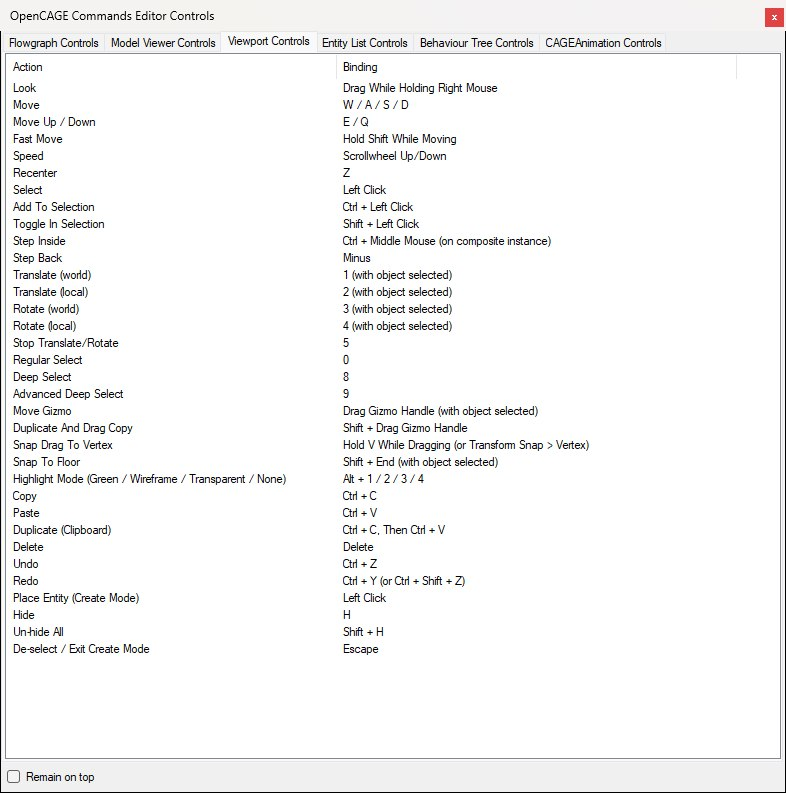
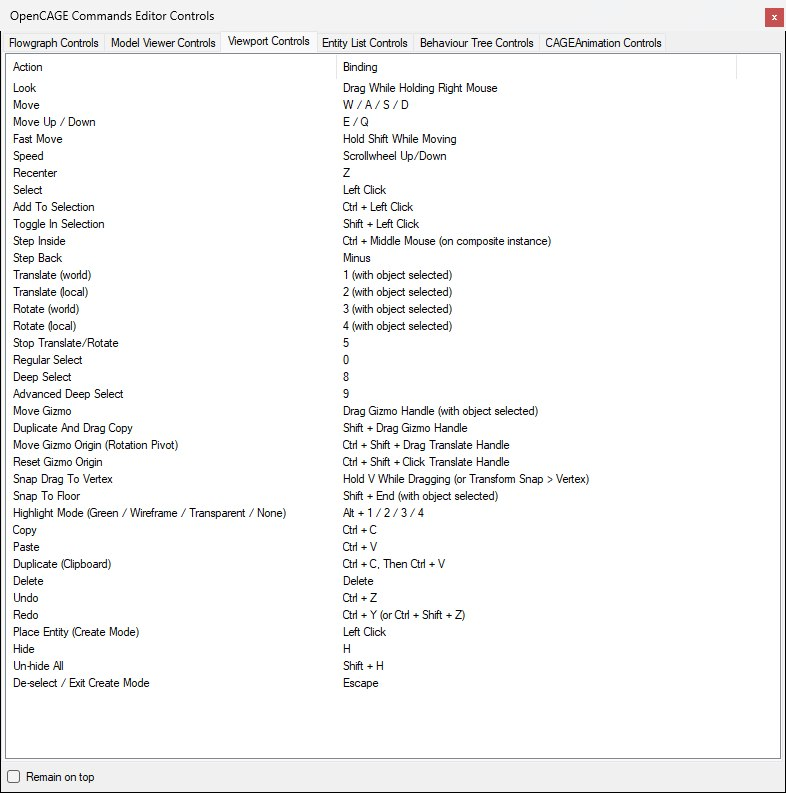
docs, changelog

diff --git a/docs/scripting-intro/index.html b/docs/scripting-intro/index.html
@@ -241,7 +241,7 @@
 			<li><b>[1] Entity List</b> - The panel named after the composite (<b>Bunk_Room Entities</b> here) shows you every entity within the current composite separated by type, with various additional information. Click a column header to sort the list by that column, and click it again to reverse the order - the arrow on the header shows the current sort, which is remembered between sessions. Select several rows with Ctrl or Shift+click and press <b>Delete</b> to remove them in one go (one confirmation, one undo step); <b>Ctrl+C</b> / <b>Ctrl+V</b> copy and paste from here too, and the arrow keys move between entities without stopping on the group headers.</li>
 			<li><b>[2] Flowgraph</b> - This contains the composite's flowgraphs, creating links between entities to drive logic (more later!). Each flowgraph is a page, with a tab along the bottom (<b>DefaultPage</b> here). A composite with no links yet, like a new one, starts with one page named after it (<b>My First Script</b> in the <a href="#creating-script">tutorial picture</a> below). A composite whose links don't match a saved page (one changed with another tool, say, or one with links that no page was ever saved for) opens with no flowgraph pages and no <b>Create Flowgraph</b> button. The inspector then lists the selected entity's links under its parameters, with a <b>Create Link</b> button, so you can still wire it up.</li>
 			<li><b>[3] Entity Inspector</b> - This holds information about the selected entity, and is where you modify its parameters (see <a href="#inspector">The Entity Inspector</a> below). It takes the entity's name as its title.</li>
-			<li><b>[4] Composite Browser</b> - A tab at the bottom left, beside the <b>Entity Palette</b> and the entity list. This contains all composites available within the current level: a folder tree, and under it every composite as a preview of what it contains, captured by the <a href="/docs/level-viewer/#composite-previews">Viewport</a>. To narrow both down, type in the search box and press <b>Search</b> (or Enter); clearing the box shows everything again. If you'd rather have a folder-by-folder file browser there, or just the tree, change <b>Composite Browser Mode</b> under <b>Options → Composite Display</b>; the same menu can put small previews in the tree views too.</li>
+			<li><b>[4] Composite Browser</b> - A tab at the bottom left, beside the <b>Entity Palette</b> and the entity list. This contains all composites available within the current level: a folder tree, and under it every composite as a preview of what it contains, captured by the <a href="/docs/level-viewer/#composite-previews">Viewport</a>. To narrow both down, type in the search box and press <b>Search</b> (or Enter); clearing the box shows everything again. The search matches folder names as well as composite names, so a folder's name finds everything in it. To match only composite names, turn on <b>Search Only Composite Names</b> under <b>Options → Composite Display</b> (see <a href="/docs/options/#composite-display">Options</a>). It's off by default, and while it's on, hovering over <b>Search</b> says so. If you'd rather have a folder-by-folder file browser there, or just the tree, change <b>Composite Browser Mode</b> under <b>Options → Composite Display</b>; the same menu can put small previews in the tree views too.</li>
 			<li><b>[5] Viewport</b> - The level in 3D, docked above the flowgraph, with its toolbar across the top: <b>Selection</b>, <b>Control</b>, <b>Create</b>, <b>Measure</b>, <b>Show State Info</b> and <b>Highlight Zones</b>, then <b>Rotation Snap</b> and <b>Transform Snap</b> at the right-hand end. It's there while <b>Options → Viewport → Enable Viewport</b> is ticked; see the <a href="/docs/level-viewer/">Viewport</a> page.</li>
 		</ul>
 		<p>Along the top are the menu bar (<b>File</b>, <b>Edit</b>, <b>View</b>, <b>Options</b>, <b>Help</b>, <b>Manage Backups</b> and <b>Launch Game</b>, joined by <b>Live Link</b> while the Steam version of the game is running with <a href="/docs/live-link/#live-link-button">Live Link</a>) and, above the Viewport and the flowgraph, the composite bar: the back button and its history dropdown (see <a href="#node-annotations">Reading the Flowgraph</a>), the trail of composites you stepped down through to get here, ending in bold with the one you're in (click an earlier one to go back up to it; just <b>Bunk_Room</b> here, as it was opened on its own), and <b>Composite Instance Info</b>, which shows where the instance you stepped into sits: its position in the level if you stepped down from the root, or relative to the composite you started from if not. Under it, the composite toolbar has <b>Create Entity</b> (a dropdown of the five entity types) and <b>Create Flowgraph</b> for a new page on the left (followed, while <a href="/docs/live-link/">Live Link</a> is connected, by <b>Resync</b> and then <b>Show Activity</b>, each set off by a divider; <b>Clear Activity</b> joins Show Activity while it's on, and both stay after a disconnect while links are still lit), and on the right the buttons for the composite itself: <b>Delete</b>, <b>Rename</b>, <b>Find Instances</b>, which lists its instances in the Search panel, and <b>Port</b>, which opens the <a href="/docs/composite-porting/#export">Port Composites</a> window with this composite ticked.</p>

diff --git a/docs/level-viewer/index.html b/docs/level-viewer/index.html
@@ -225,6 +225,16 @@
 		<p>Click and drag the coloured gizmo handles to transform the entity. The current mode is shown in a small HUD.</p>
 		<p>An entity with more than one transform parameter only has the relevant one updated when you drag it, rather than all of them.</p>
 
+		<h3 class="section-heading" style="font-size: 1.1rem; margin-top: 1.5rem;">Moving the Gizmo's Origin</h3>
+		<p>The gizmo normally sits on the selected entity (or in the middle of a multi-selection), and rotating turns everything about that point. To turn about somewhere else — a door about its hinge, say — move the gizmo first: hold <b>Ctrl + Shift</b> and drag one of the translate handles. Only the gizmo moves. The entity stays where it is and nothing in the level changes, so there's nothing to undo. A thin line runs from the moved gizmo back to the entity's own origin while it's away from it.</p>
+		<ul>
+			<li>Switch to a rotate mode (<b>3</b> or <b>4</b>) and the rings sit on the new origin: the selection swings round it as it turns, keeping its shape. With <b>Rotation Snap</b> on it turns in whole steps from where it started.</li>
+			<li>Translating carries the origin along with the selection, so it stays in the same place relative to it.</li>
+			<li>With vertex snap on (hold <b>V</b>, or <b>Vertex</b> from the <b>Transform Snap</b> menu), the origin snaps to vertices as you drag it — including the selected entity's own, which is how to put it exactly on a corner or a hinge.</li>
+			<li><b>Ctrl + Shift + click</b> a translate handle to put the gizmo back on the entity, or press <b>Escape</b> mid-drag to put it back where the drag began.</li>
+		</ul>
+		<p>The moved origin lasts as long as the selection does. Select something else and it's forgotten: the gizmo is back on the entity the next time you select it. A Shift-drag duplicate (below) keeps it, so the copy turns about the same point.</p>
+
 		<h3 class="section-heading" style="font-size: 1.1rem; margin-top: 1.5rem;">Snapping</h3>
 		<p>Use <b>Transform Snap</b> and <b>Rotation Snap</b> on the Viewport toolbar to snap movement and rotation to stepped values while dragging. The values on offer are yours to change: <b>Options → Viewport → Snap Increments…</b> opens the dialog below, with a list of transform increments (in units) and rotation increments (in degrees) to add to or remove from — <b>Off</b> always stays, and <b>Reset to Defaults</b> puts the stock lists back (0.25 to 10 units, 1° to 90°). The toolbar menus update as you add or remove a value.</p>
 		<p><img src="img/snap-increments.jpg" alt="The Snap Increments dialog with editable lists of transform and rotation snap values." style="max-width:100%;width:432px"></p>

diff --git a/docs/character-editor/index.html b/docs/character-editor/index.html
@@ -169,7 +169,7 @@
 			<li><b>Shoes</b></li>
 			<li><b>Collision</b></li>
 		</ul>
-		<p>The picker (shown below) opens with the slot’s current composite already selected in the tree, and the selected composite’s preview picture beside it: the same picture the composite browser shows (see <a href="/docs/level-viewer/#composite-previews">Composite Previews</a>). To filter composites by name, type in the search box and press <b>Search</b> or Enter (the red <b>X</b> button clears it), then click <b>Select Composite</b> to update that slot immediately on the accessory-set entry. Untick <b>Show Preview</b>, under the tree, to hide the preview; it’s the same setting as in the <a href="/docs/scripting-intro/#composite-instance-preview">Create Composite Instance Entity</a> window. The window can be resized.</p>
+		<p>The picker (shown below) opens with the slot’s current composite already selected in the tree, and the selected composite’s preview picture beside it: the same picture the composite browser shows (see <a href="/docs/level-viewer/#composite-previews">Composite Previews</a>). To filter composites by name or folder (by name only while <a href="/docs/options/#composite-display">Search Only Composite Names</a> is on), type in the search box and press <b>Search</b> or Enter (the red <b>X</b> button clears it), then click <b>Select Composite</b> to update that slot immediately on the accessory-set entry. Untick <b>Show Preview</b>, under the tree, to hide the preview; it’s the same setting as in the <a href="/docs/scripting-intro/#composite-instance-preview">Create Composite Instance Entity</a> window. The window can be resized.</p>
 		<p><img src="img/composite-picker.jpg" alt="The Select Composite window opened from the Head slot’s Change button: a search box with a Search button and a red clear button above a composite tree in which the slot’s current head composite, HEAD_ALBERT, is selected, and on the right the composite’s name and folder above its small preview picture of a head in a cap. Show Preview is ticked under the tree, and Select Composite is at the bottom right." style="max-width:100%;width:762px"></p>
 		<p class="text-muted small"><i>The picker for the Head slot: the tree opens with the current HEAD_ALBERT composite selected under NPC\MALE\HEAVY\AFRICAN\HEAD, and its preview on the right.</i></p>
     </section>

diff --git a/docs/options/index.html b/docs/options/index.html
@@ -136,7 +136,7 @@
 	<section class="docs-section" style="padding-top:0;">
 		<ul>
 			<li><b>Composite Browser Mode</b> — what the Composite Browser panel shows under its tree: <b>Tree Only</b> (just the tree), <b>Tree And Browser</b> (a folder-by-folder file browser below it, with a clickable path row like the one above the flowgraph), or <b>Tree And Preview</b> (the default: every composite in the level in one flat list, each as a rendered preview of its content, which a search above the tree narrows down: type, then press <b>Search</b> or Enter). See <a href="/docs/level-viewer/#composite-previews">Composite Previews</a> for where the previews come from.</li>
-			<li><b>Search Only Composite Names</b> — composite search matches only the composite name, not folder path segments (off by default).</li>
+			<li><b>Search Only Composite Names</b> — off by default. While it's off, a composite search matches the whole path, folders included: searching for a folder's name, such as <code>REQUIRED_ASSETS</code>, finds every composite in that folder. Turn it on and only each composite's own name is matched, so that same search finds nothing. It applies to every composite search: the Composite Browser, and the <b>Create Composite Instance Entity</b> and <b>Select Composite</b> windows. Because the results differ, hovering over <b>Search</b> in any of them tells you while the option is on. Switching it re-runs any search those windows have open.</li>
 			<li><b>Show Composite Previews In Tree Views</b> — the same previews, small, beside the names in the composite tree and in every window that picks a composite (off by default, since it makes the rows taller).</li>
 			<li><b>Composite Preview Scale</b> — how big those previews are drawn, from 50% to 200% of their normal size, in the flat list and the tree views alike. They are captured at one size, so the largest settings soften them a little.</li>
 		</ul>

diff --git a/docs/changelog/index.html b/docs/changelog/index.html
@@ -232,6 +232,7 @@
 				<li>Added support for skeletons and bones on export for characters</li>
 				<li>Added a rescale option on import</li>
 				<li>Added a new model metadata json file that exports with a model to help reimporting</li>
+				<li>Added an 'export all' option</li>
 				<li>Added support for previewing TGA textures, and ones embedded in GLBs on import</li>
 				<li>Fixed unit scale factor (models are no longer tiny)</li>
 				<li>Fixed a bug where large imported models would render incorrectly in-game</li>
@@ -376,6 +377,8 @@
 			<li>Added support for renaming folders in the composite browser</li>
 			<li>Added support for dragging composites/folders to move them in file browser mode</li>
 			<li>Added arrows to point to off-screen highlighted nodes</li>
+			<li>Added a progress UI for multi-export models/textures</li>
+			<li>Added ability to move the origin point for transform controls in the viewport (CTRL+SHIFT)</li>
 			<li>Added a button to view changelog</li>
 			<li>Added a button to view raw crash logs</li>
 			<li>Added crash log reporting for the viewport</li>
